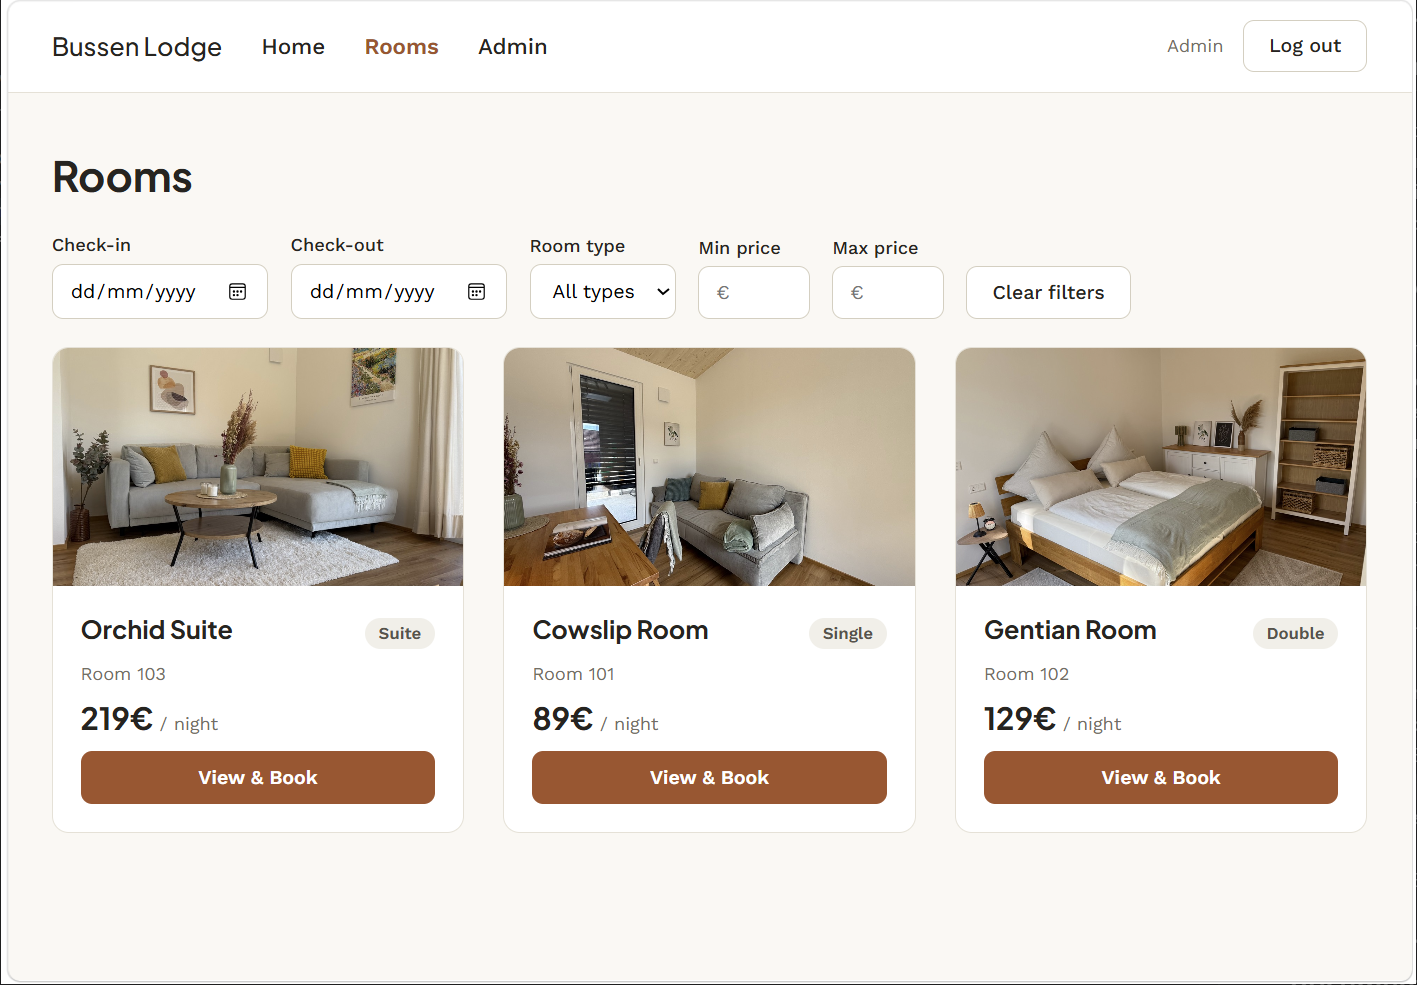
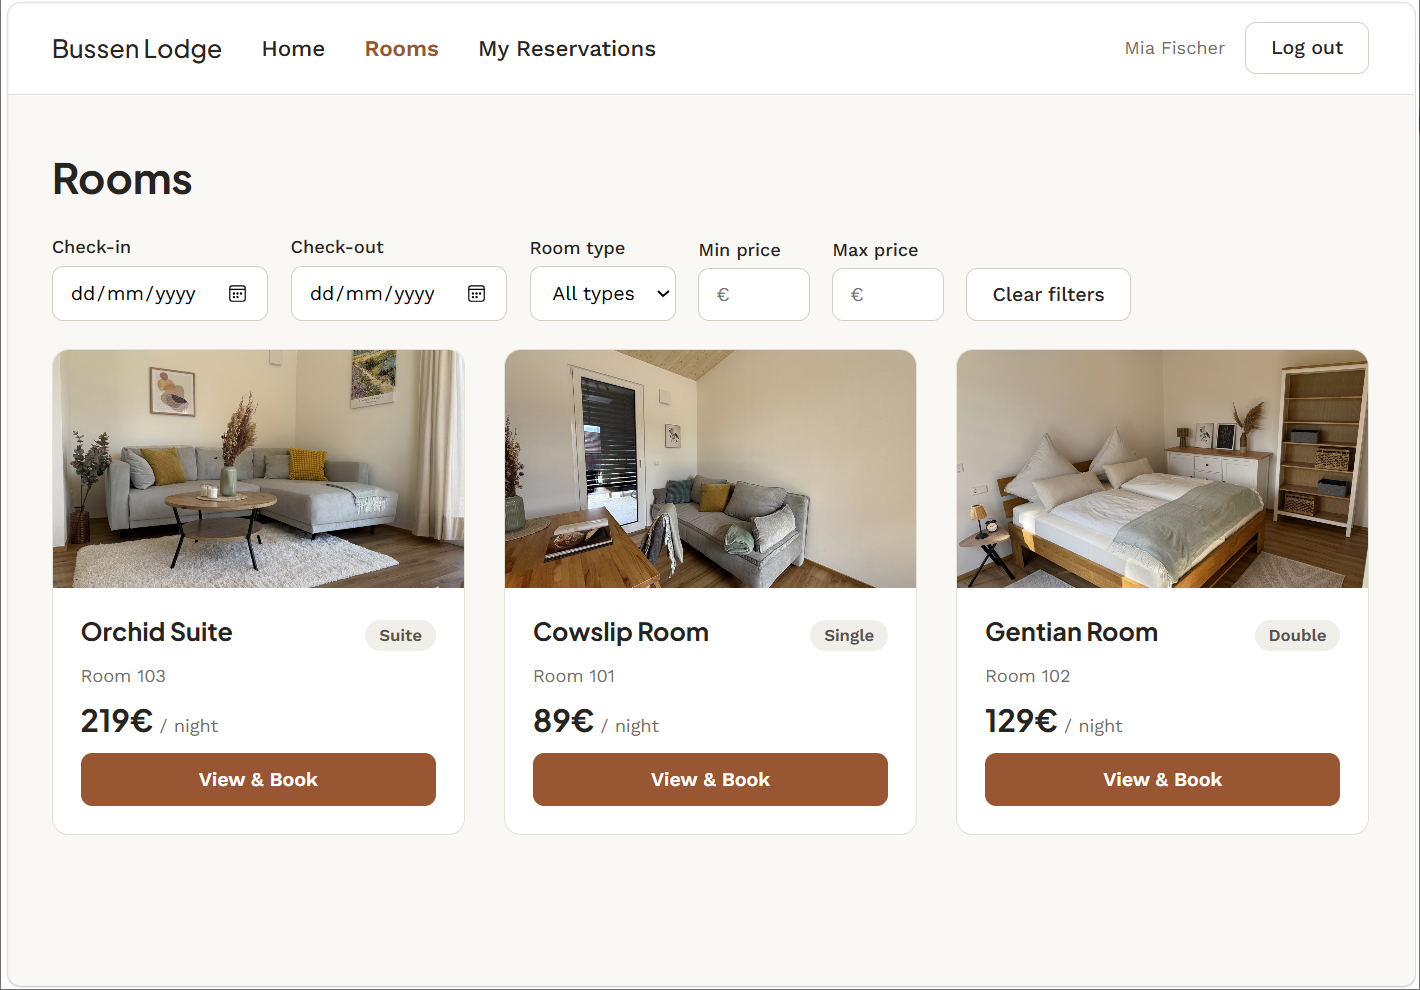
Add admin screenshot and frontend feature summary to README

diff --git a/README.md b/README.md
@@ -8,6 +8,11 @@ A full-stack hotel reservation system — ASP.NET Core backend, Angular frontend
   <img src="docs/images/home.png" alt="Bussen Lodge homepage" width="49%" />
   <img src="docs/images/rooms.png" alt="Bussen Lodge rooms listing" width="49%" />
 </p>
+<p align="center">
+  <img src="docs/images/admin.png" alt="Admin reservations management" width="70%" />
+</p>
+
+**Frontend pages:** home · rooms (browse & filter by type, price, availability) · booking · sign up / log in · a customer's own reservations · an admin console (rooms, reservations, customers, hotel — full CRUD, photo uploads) · a dedicated screen when the backend is unreachable.
 
 ## Goals
 
